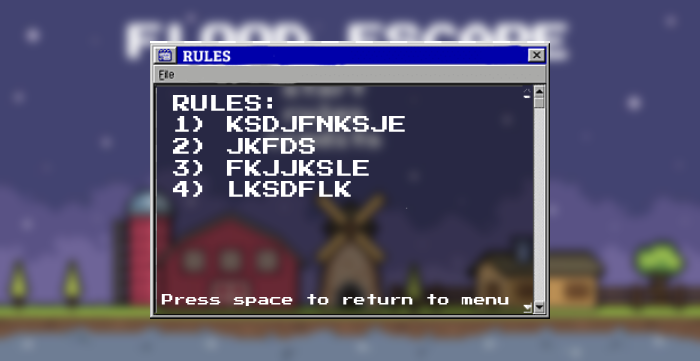
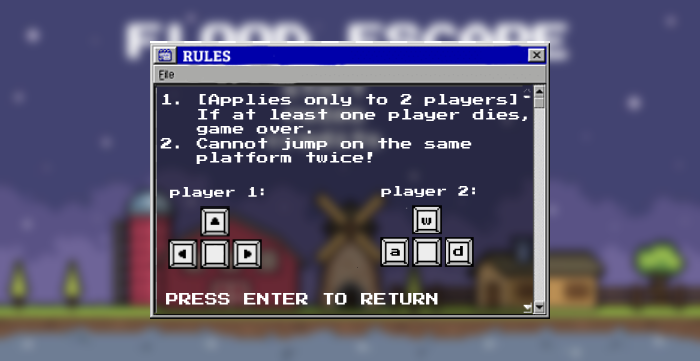
screen updates (update end screen to match no vibrance)

Changed region(s): [[0.21, 0.2438, 0.75, 0.7618], [0.54, 0.518, 0.69, 0.7618], [0.21, 0.7922, 0.75, 0.8532]]

diff --git a/culminating/Main.java b/culminating/Main.java
@@ -799,13 +799,13 @@ public class Main extends JPanel implements KeyListener, Runnable {
         }
 
         else if (state == 1) { // credits
-            if (e.getKeyChar() == ' ') {
+            if (e.getKeyCode() == KeyEvent.VK_ENTER) {
                 state = 0; // return to menu
             }
         }
 
         else if (state == 2) { // rules
-            if (e.getKeyChar() == ' ') {
+            if (e.getKeyCode() == KeyEvent.VK_ENTER) {
                 state = 0; // return to menu
             }
         }
